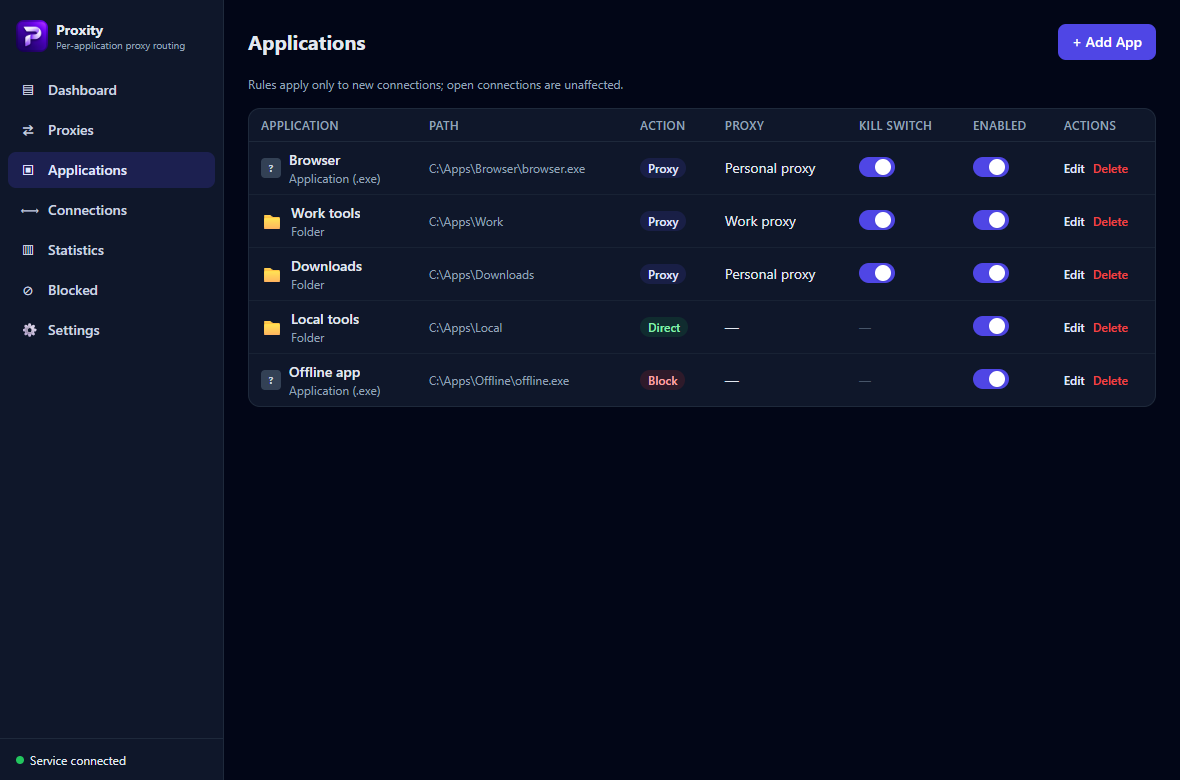
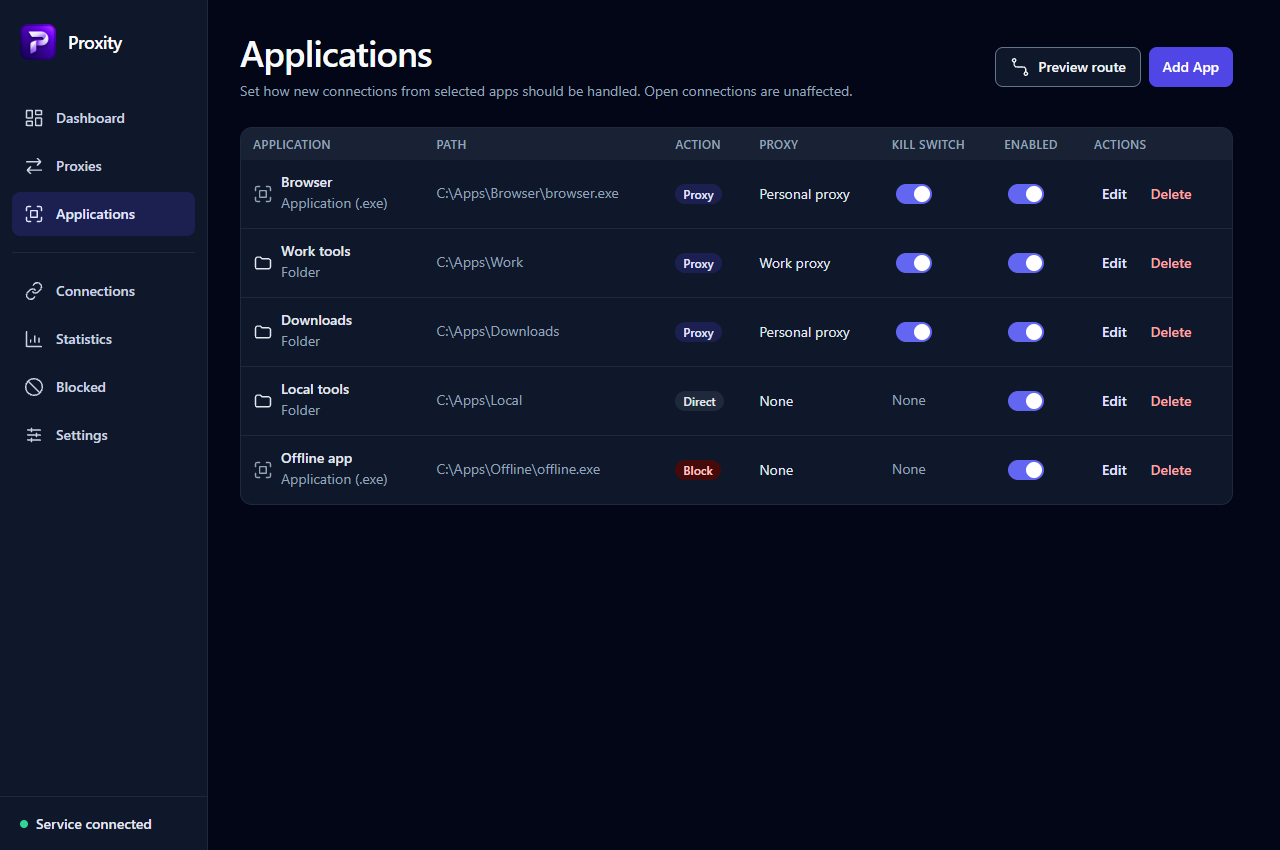
docs: refresh Proxity screenshots and routing guide

diff --git a/README.md b/README.md
@@ -28,7 +28,7 @@ and keep everything else on the connection you choose.
 <picture>
   <source media="(prefers-color-scheme: dark)" srcset="docs/screenshots/dashboard.png" />
   <source media="(prefers-color-scheme: light)" srcset="docs/screenshots/dashboard-light.png" />
-  <img src="docs/screenshots/dashboard.png" alt="Proxity dashboard: running engine, protected apps, connected proxies and a live bandwidth chart" width="1180" />
+  <img src="docs/screenshots/dashboard.png" alt="Dashboard showing Routing is active, two enabled proxy profiles, five enabled rules, the global kill switch setting, and a sample Live activity chart" width="1180" />
 </picture>
 
 <p align="center"><sub>The actual Proxity interface, shown with illustrative demo data. Light and dark themes included.</sub></p>
@@ -39,12 +39,12 @@ You should be able to choose a route for an application without changing how eve
 
 | On your PC | Your rule | The result |
 | :--- | :--- | :--- |
-| 🌐 **Browser** | Proxy → Personal proxy | New browser connections use your selected proxy profile. |
+| 🌐 **Browser** | Proxy → Personal proxy | Matching new remote TCP connections use Personal proxy when available. |
 | 💼 **Work tools** | Proxy → Work proxy | A folder rule covers the tools you want on a separate route. |
 | 🏠 **Local tools** | Direct | Those applications use their normal connection. |
-| ⛔ **Offline app** | Block | Internet connections are blocked; LAN and loopback exemptions remain. |
+| ⛔ **Offline app** | Block | The rule blocks matching new remote TCP connections. Separate firewall protection and exemptions may also apply. |
 
-**No system-wide proxy setting changes.** Rules apply to new connections, so restart an application after changing its route.
+**No system-wide proxy setting changes.** Route matching applies to new remote TCP connections; it doesn't reroute open connections. Restart an application to open new connections after changing its route.
 
 ## More control. More visibility.
 
@@ -52,7 +52,7 @@ You should be able to choose a route for an application without changing how eve
 | :--- | :--- |
 | **🎯 Rules that fit your apps** | Select an executable, choose a running process, drag in an `.exe`, or cover a folder and its subfolders. |
 | **🔀 HTTP, HTTPS, SOCKS4 & SOCKS5 profiles** | Store several proxies with optional authentication. Test a profile and see its latency and exit IP before assigning it. |
-| **🛡 Configurable kill switches** | Protect individual proxy rules or enable a global kill switch. Persistent Windows Filtering Platform blocks keep configured protection in place when the engine stops. |
+| **🛡 Configurable kill switches** | Set a Block fallback on proxy rules or enable a global kill switch. Persistent Windows Filtering Platform blocks can remain active when the engine stops. |
 | **🔎 Optional Secure DNS** | Resolve through a local DNS forwarder and a selected proxy, with managed adapter DNS settings. |
 | **📈 Traffic you can inspect** | Watch bandwidth, active connections, and blocked traffic. Explore per-app and per-proxy statistics, then export them as CSV. |
 | **🌗 A window that gets out of the way** | Choose light, dark, or system theme. Close to the tray while the background service keeps routing. |
@@ -65,7 +65,7 @@ You should be able to choose a route for an application without changing how eve
 2. **Connect.** Choose your proxy type and add its host and port in the setup wizard. Enter credentials if needed, then test the connection.
 3. **Choose your app.** Select an executable or folder and assign the proxy. Enable its kill switch if the app must not fall back to a direct connection. Restart the target app to open new connections.
 
-The engine starts automatically with the service. Check **Dashboard → Engine** to see its state or explicitly start/stop it.
+The engine starts with the background service. On **Dashboard**, check **Routing is active**, **Routing is paused**, or **Capture is unavailable**. Use **Start Engine** or **Stop Engine** when shown. When routing is active and setup is complete, **View connections** opens the connection list and **Live activity** shows traffic rates and counters.
 
 > **Before installing:** Windows 10/11 x64 and administrator access are required. The interface uses Microsoft WebView2; setup checks for its runtime. Current builds are unsigned, so Windows may display a SmartScreen prompt.
 
@@ -97,21 +97,35 @@ See which profiles are connected, how quickly they respond, and which exit IP th
 
 ![Proxity proxy profiles with connection status, latency, exit IP and test controls](docs/screenshots/proxies.png)
 
+### Preview a saved route
+
+Open **Applications → Preview route** and choose an `.exe`. You'll see the saved route for new remote TCP connections, the winning rule, and, for a Proxy route, the named profile if it's still saved. The fallback is **Block** with the rule's kill switch on or **Direct** with it off, if the proxy is unavailable while capture is active.
+
+Preview doesn't test a connection, save changes, or affect open connections. If capture is off, the result is for reference only; separate firewall protection, including a global kill switch, can still apply. See [how Preview route chooses a match](docs/user-guide.md#preview-a-route).
+
+![Preview route dialog showing the Browser executable's exact match, Personal proxy, and a Block fallback if that proxy is unavailable during active capture](docs/screenshots/route-preview.png)
+
+### Choose what starts with Windows
+
+In **Settings → Startup**, turn **Apply routing rules when Windows starts** on for **Automatic (Delayed Start)** or off for **Manual**. The change takes effect at the next boot. It doesn't start or stop current routing, and kill switch protection can remain in effect. **Open Proxity at sign-in** controls only the desktop app.
+
+![Startup settings with Apply routing rules when Windows starts on and Open Proxity at sign-in off](docs/screenshots/startup-settings.png)
+
 <details>
 <summary><strong>Prefer a lighter workspace? See the light theme.</strong></summary>
 
-![Proxity dashboard in light theme](docs/screenshots/dashboard-light.png)
+![Light theme Dashboard showing active routing, enabled rule and profile counts, and sample download and upload activity](docs/screenshots/dashboard-light.png)
 
 </details>
 
-*All screenshots use demo endpoints and sample activity. They contain no real proxy credentials or personal connection records.*
+*These screenshots show the actual interface with sample rules, proxy health, and traffic. They don't show a live connection test or Windows startup.*
 
 ## Know what is protected
 
 Clear boundaries make routing easier to trust and verify:
 
-- **TCP over HTTP CONNECT, HTTPS CONNECT, SOCKS4(a), or SOCKS5.** Proxity does not relay UDP. Proxy rules block remote UDP while LAN and loopback exemptions remain available.
-- **Protection follows your configuration.** Enable a kill switch for each proxy rule that must stay blocked when routing is unavailable. Global protection is a separate setting.
+- **TCP over HTTP CONNECT, HTTPS CONNECT, SOCKS4(a), or SOCKS5.** Proxity does not relay UDP. Firewall policy for exact-executable Proxy rules can block remote UDP; local exemptions can still apply.
+- **Protection follows your configuration.** A rule's kill switch selects a Block fallback during active capture. When capture is off, separate firewall protection can still apply through exact-executable rules or the global kill switch.
 - **Secure DNS is optional.** Enable it when you want Proxity to manage adapter DNS through a proxy. An application's own DNS implementation can behave differently.
 - **Passwords are encrypted at rest.** Stored proxy passwords use machine-scope Windows DPAPI. Optional secret export includes encrypted password ciphertext tied to this machine; treat those files as secrets.
 
@@ -129,14 +143,14 @@ No. Supply an HTTP, HTTPS, SOCKS4 or SOCKS5 proxy server you already have access
 <details>
 <summary><strong>Will it change the route of every application?</strong></summary>
 
-You control that through rules and the default action. The default is Direct for unmatched traffic. Global kill-switch and Secure DNS settings can have wider effects, so review them separately.
+Enabled rules match new remote TCP connections. Capture currently passes unmatched connections through directly, even if Settings stores **Block** as the default. Global kill switch, firewall, and Secure DNS protection can still affect traffic independently.
 
 </details>
 
 <details>
 <summary><strong>Does closing the window stop routing?</strong></summary>
 
-No. Closing hides the window in the tray. **Quit Proxity** closes the GUI and tray, while the background service keeps running. Stop the engine explicitly from the Dashboard.
+No. Closing hides the window in the tray. **Quit Proxity** closes the GUI and tray, while the background service keeps running. To stop capture, use **Stop Engine** on the Dashboard.
 
 </details>
 

diff --git a/docs/user-guide.md b/docs/user-guide.md
@@ -8,10 +8,32 @@
    `%ProgramFiles%\Proxity\Proxity`, then installs and starts the
    `ProxityEngine` service.
 2. The first-run wizard helps you configure the app.
-3. Check the service status on the Dashboard. If the service is unreachable,
-   the "Install service" button runs `-install` with UAC approval.
+3. Check the service status on the Dashboard. If you see **Proxity service
+   is unreachable**, follow the **Start service** or **Install service**
+   prompt, as shown. Windows asks for administrator consent.
 
 > A SmartScreen warning is expected because the builds are unsigned.
+
+## Dashboard
+
+Start with the routing status. **Routing is active** means capture can match
+enabled rules for new remote TCP connections. **Routing is paused** means
+capture is off, but kill switch protection may still apply. If you see
+**Capture is unavailable**, the engine is running but can't match new
+connections. Use **Stop Engine** before starting it again.
+
+The suggested action depends on what's missing: **Add a proxy** if no proxy
+profiles are enabled, **Set up application rules** if no rules are enabled,
+or **Start Engine** if setup is ready and the engine is off. When routing is
+active and setup is ready, **View connections** opens the connection list.
+**Live activity** shows traffic rates, counts, and a bandwidth chart once
+enough samples are available. **Last session** appears when routing is active
+and a previous session is available.
+
+The screenshots in this guide and the [README gallery](../README.md#see-your-network-at-a-glance)
+show sample configuration, proxy status, and traffic, not live test results.
+
+![Dashboard with active routing, enabled profile and rule counts, and sample download and upload activity](screenshots/dashboard.png)
 
 ## Key concepts
 
@@ -19,8 +41,8 @@
 |---------|---------|
 | **Profile** | An HTTP, HTTPS, SOCKS4 or SOCKS5 proxy with a type, host, port, and optional credentials. The password is encrypted with DPAPI and tied to the machine. |
 | **Rule** | An exe or folder, an action (Proxy / Direct / Block), and an optional kill switch. Folder rules can include subfolders. |
-| **Engine** | Captures outgoing TCP SYN packets with WinDivert, then reflects and proxies them according to the matching rule. |
-| **Kill switch** | WFP filters that block traffic if the engine stops. Can be configured per rule or globally. |
+| **Engine** | Uses WinDivert to match new outbound remote TCP connections against enabled rules. |
+| **Kill switch** | Protection that can block traffic when routing is unavailable. The rule fallback and Windows firewall policy are separate; global protection is configured separately. |
 
 ## Proxy profiles
 
@@ -49,22 +71,69 @@ SOCKS5. Unknown types and SOCKS4 profiles containing passwords are rejected.
 
 ## Rules
 
-- **Proxy**: connections use the selected profile. If the kill switch is
-  enabled, the application cannot reach the internet if the engine or proxy
-  stops. If disabled, TCP continues directly, but **remote UDP is still
-  blocked** because it cannot be proxied.
+- **Proxy**: matching TCP connections use the selected profile when available.
+  If it's unavailable during active capture, the rule falls back to **Block**
+  with its kill switch on or **Direct** with it off. Windows firewall protection
+  for an exact executable can block remote UDP regardless of that setting.
 - **Direct**: behaves like traffic without a matching rule and is useful for
   applications that should explicitly bypass proxies.
-- **Block**: the application cannot reach the internet (LAN and loopback
-  remain allowed).
+- **Block**: capture blocks matching new remote TCP connections. Separate
+  firewall policy can also apply to exact executables.
 
-If multiple rules target the same path, Proxity warns about the conflict.
-The most specific or highest-priority matching rule takes precedence.
+Use **Applications → Add App** to set up a rule. Capture considers only
+enabled rules. An exact executable match wins over any folder match. If
+only folders match, the deepest matching folder wins. Higher priority breaks
+ties between equally specific matches; if their priorities also tie, the
+first in saved rule order wins. Folder rules don't add firewall protection
+for individual executables.
+
+### Preview a route
+
+1. With the service connected, open **Applications → Preview route** and
+   pick an `.exe`.
+2. Read **Saved route** and **Winning match** to see what the saved rules say
+   about new remote TCP connections for that file. For a Proxy rule,
+   **Proxy profile** shows its name if the profile still exists and reports
+   availability from saved settings and the last engine status sample.
+   **Rule fallback** shows what the matching rule specifies if the proxy is
+   unavailable while capture is active.
+3. Expand **Protection and exemptions** to review separate Windows firewall
+   policy for the exact executable, the global kill switch, and relevant
+   exemptions. This shows saved policy, not proof that a firewall filter is
+   installed or that a connection is allowed.
+
+![Preview route showing an exact match for Browser, the Personal proxy profile, and a Block fallback during active capture](screenshots/route-preview.png)
+
+Preview doesn't run a live connection test, check a destination, save changes,
+or affect open connections. If the engine is off or capture is unavailable,
+the saved match and fallback are shown for reference and aren't applied by
+capture. Global and exact-executable firewall protections can still apply.
+
+If no enabled rule matches, capture currently passes traffic through directly,
+even if **Default action for apps without a rule** is saved as **Block**.
+Separate protections, such as the global kill switch or Secure DNS, may still
+affect that traffic.
 
 ## Settings
 
-- **Start service with Windows**: controls the installed service's startup
-  mode (Automatic/Manual). Turning it off does not uninstall the service.
+### Startup
+
+In **Settings → Startup**, use **Apply routing rules when Windows starts** to
+choose when Windows launches the background service. Turning it on selects
+**Automatic (Delayed Start)**. At the next boot, Windows starts the service
+after a delay so it can load the saved rules and start the engine without
+opening the desktop app. Turning it off selects **Manual**: the next boot
+won't automatically start the service. This setting doesn't start, stop, or
+uninstall the service now. Current routing is unchanged, and persistent
+kill switch protection can remain in effect.
+
+**Open Proxity at sign-in** is separate. It opens the desktop app when you
+sign in and doesn't control when routing starts.
+
+![Settings Startup section with Windows routing startup on and desktop app launch at sign-in off](screenshots/startup-settings.png)
+
+### Other settings
+
 - **Global kill switch**: if the engine stops, internet access is blocked for
   the entire machine. LAN access can be allowed separately.
 - **Secure DNS**: changes adapter DNS to 127.0.0.1. Queries are resolved
@@ -77,8 +146,8 @@ The most specific or highest-priority matching rule takes precedence.
 
 ## Window and tray
 
-The engine starts automatically when the background service starts. Check
-its status on the Dashboard; use that screen to explicitly stop or start it.
+The engine starts automatically when the background service starts. Use
+**Start Engine** or **Stop Engine** on the Dashboard when shown.
 Closing the window hides it in the tray. Right-click the Proxity tray icon
 for **Show Proxity** or **Quit Proxity**. Quitting closes the GUI and tray;
 the background service keeps running.
@@ -94,12 +163,13 @@ Use `uninstall.exe` or Windows Settings > Apps. The uninstaller:
 
 ## Troubleshooting
 
-- **Service unreachable**: use the Dashboard recovery prompt to reinstall;
-  check the `ProxityEngine` status in `services.msc`.
-- **An application is not using its proxy**: verify that the rule path matches
+- **Service unreachable**: follow **Start service** or **Install service** on
+  the Dashboard. You can check `ProxityEngine` in `services.msc`.
+- **An application is not using its proxy**: use **Preview route** to check the
+  saved match. Verify that the rule path matches
   the exe's full path (for example, use the actual exe rather than an
-  updater running under AppData). Rules affect new connections; restart the
-  application to re-establish its connections.
+  updater running under AppData). Route matching affects new remote TCP
+  connections; restart the application to re-establish its connections.
 - **Logs**: `%ProgramData%\Proxity\logs`. Set the log level to `debug` in
   Settings for more detail.
 - **Blocked screen**: shows the live list of kill-switch blocks.

diff --git a/CHANGELOG.md b/CHANGELOG.md
@@ -23,6 +23,16 @@ versioning follows [SemVer](https://semver.org/).
   profiles migrate to SOCKS5. Local fake-server checks cover all protocols,
   authentication, TLS verification, tunnel data, cancellation and failures;
   browser tests cover profile creation, editing and tests for each type.
+- **Preview route** in Applications shows the saved match for an executable's
+  new remote TCP connections, its proxy profile and conditional fallback, and
+  separate protection details. It doesn't test a connection or save changes.
+
+### Changed
+
+- Dashboard separates routing status and setup actions from **Live activity**.
+  Applications and Proxies make saved rules and profiles easier to scan.
+  Updated screenshots show these views, Preview route, and Startup with sample
+  data.
 
 ### Fixed
 
@@ -46,7 +56,9 @@ versioning follows [SemVer](https://semver.org/).
   and blocked-log event handlers are removed when leaving the screen.
 - Cancelling a conflicting rule edit restores the original rule. Proxy tests
   and saves cannot run simultaneously from the same form.
-- Disabling service autostart selects manual startup without uninstalling it.
+- **Apply routing rules when Windows starts** switches the service between
+  Automatic (Delayed Start) and Manual for the next boot without stopping or
+  uninstalling it. **Open Proxity at sign-in** remains a separate setting.
 - SOCKS5 handshakes obey timeouts and cancellation; profile edits restart health
   checks using the updated credentials.
 - Failed engine starts can be retried. Start RPCs report the resulting status,
